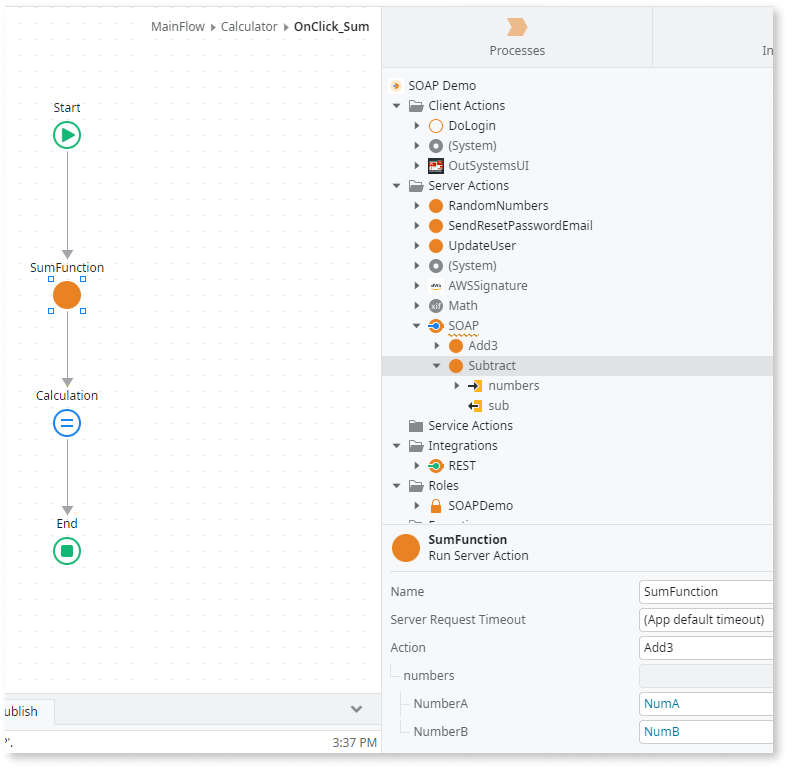
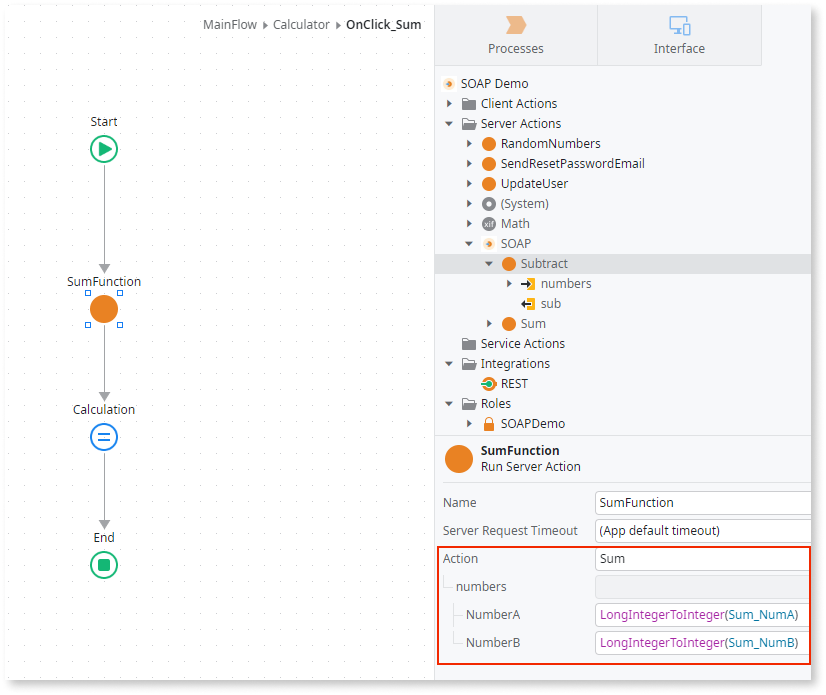
Updates in Supporting SOAP in ODC (#408)
* Peer feedback

* fixing hyperlinks

* feedback about client action image

* fixing typo

* Peer feedback

* incorporating feedback

* fixing links

diff --git a/src/eap/building-apps/external-logic/soap.md b/src/eap/building-apps/external-logic/soap.md
@@ -9,43 +9,45 @@ platform-version: odc
 
 # Supporting SOAP in ODC
 
-OutSystems Developer Cloud (ODC) lets you use Simple Object Access Protocol (SOAP) by creating a high-code solution and extending your code library. This document provides an example of how to create a library to consume a SOAP web service in ODC. This article assumes you are familiar with C#, .NET and SOAP. You can download the [SOAP demo OML example](resources/SOAP-Demo.oml).
+You can use Simple Object Access Protocol (SOAP) web services to extend your code in OutSystems Developer Cloud (ODC). This document provides an example of creating a library to consume a SOAP web service in ODC. This article assumes you know C#, .NET and SOAP. 
+
+You can download the [SOAP template](https://github.com/OutSystems/OutSystems.ExternalLibraries.SDK-templates/blob/main/soap_template.zip), a C# project designed for calculating the sum and subtraction of two numbers using SOAP web services. You can also download the [provided SOAP demo OML](resources/SOAP-Demo.oml), an example OutSystems app with external logic implemented.
 
 ## Prerequisites
 
-Ensure you have installed the prerequisites to [extend your apps with external logic](./README.md#Prerequisites). Then in Visual Studio Code, go to the extensions marketplace and search for and install the following extensions:
+Make sure you have installed the necessary prerequisites to [extend your apps with external logic](README.md#Prerequisites). Next, launch an integrated development environment (IDE) that supports building .NET 6 projects, such as Visual Studio or Visual Studio Code. Open the extensions marketplace within the IDE and search for the following extensions. Install them once you find them:
 
 * C# (extension id: ms-dotnettools.csharp)
 * NuGet Package Manager GUI (extension id: aliasadidev.nugetpackagemanagergui)
 
 ### Install .NET tools to create a library
 
-Select the folder in which you want to create your SOAP integration. Create a folder and give it a descriptive name, such as how-to-soap. Then go to the Visual Studio Code terminal, and enter the following command:
+Select the folder in which you want to create your SOAP integration. Create a folder and give it a descriptive name, such as `how-to-soap`. Then go to the IDE terminal and enter the following command:
 `cd path-to/<your-folder>`
 
-1. To work with SOAP web services using the command line, install the WCF dotnet-svcutil tool for .NET. However, run the following command to ensure you have the WCF dotnet-svcutil tool installed.
+1. To work with SOAP web services using the command line, install the WCF dotnet-svcutil tool for .NET. Run the following command to ensure you have the WCF dotnet-svcutil tool installed.
 
     `dotnet tool install --global dotnet-svcutil`
 
-2. To add the dependencies, use either the terminal or the NuGet Package Manager GUI using CTRL +SHIFT + P. Then install the following dependency:
+2. To add the dependencies, use either the terminal or NuGet Package Manager GUI. Then install the following dependency:
 
-`dotnet add package OutSystems.ExternalLibraries.SDK`
+    `dotnet add package OutSystems.ExternalLibraries.SDK`
 
 ## Consume SOAP web service as an external library in ODC
 
 To create a library that consumes a SOAP web service, follow this process:
 
-1. [Create a library using C#](#create-a-library-using-c)
+1. [Create OutSystems external library](#create-outsystems-external-library)
 2. [Upload the library to ODC Portal](#upload-the-library-to-odc-portal)
-3. [Use the actions from the library to consume the SOAP web service](#use-the-external-library-in-odc)
+3. [Use the actions from the library to consume the SOAP web service](#use-the-external-library-in-odc-studio)
 
 ## Create OutSystems external library
 
-To create an OutSystems external library that consumes SOAP web service in C#, follow this process:
+To create an OutSystems external library that consumes a SOAP web service in C#, follow this process:
 
 1. [Set up the project](#set-up-the-project)
-2. [Define the methods interface](#define-the-methods-interface)
-3. [Import the images resources](#import-the-images-resources)
+2. [Define the interface of the method](#define-the-interface-of-the-method)
+3. [Import the image resources](#import-the-image-resources)
 4. [Add the calculator SOAP web service](#add-the-calculator-soap-web-service)
 5. [Call the SOAP web service](#call-the-soap-web-service)
 6. [Release the SOAP web service](#release-the-soap-web-service)
@@ -54,21 +56,21 @@ To create an OutSystems external library that consumes SOAP web service in C#, f
 
 To install your web service and create the structures to be used by the interface, follow these steps:
 
-1. To install your web service using svcutil, open the Visual Studio Code terminal and run the following command.
+1. To install your web service using svcutil, open the IDE terminal and run the following command.
 
     `dotnet-svcutil https://<YOUR WSDL>`
 
     <div class="info" markdown="1">
 
-    You can use a free [SOAP WSDL](https://ecs.syr.edu/faculty/fawcett/Handouts/cse775/code/calcWebService/Calc.asmx) available for testing purposes.
+    You can use a free [SOAP WSDL](https://ecs.syr.edu/faculty/fawcett/Handouts/cse775/code/calcWebService/Calc.asmx) available for testing.
 
     </div>
 
-2. To create your library using the class library template, run the following code. Give the project a name, such as ConsumeSOAPExample and select .NET 6.0 (Long-term support) as the framework.
+2. To create your library using the class library template, run the following code. Give the project a name, such as `ConsumeSOAPExample`, and select **.NET 6.0 (Long-term support)** as the framework.
 
     `dotnet new classlib --language "C#" --framework "net6.0" -o ConsumeSOAPExample`
 
-3. Create a new folder named **Structures** inside the ConsumeSoapExample folder. Create a new file called **Numbers.cs** within the Structures folder. Then copy and paste the following code to create and map the structures as OutSystems structures.
+3. Create a new folder named `Structures` inside the ConsumeSoapExample folder. Create a new file called `Numbers.cs` within the Structures folder. Then copy and paste the following code to create and map the structures as OutSystems structures.
     
         using OutSystems.ExternalLibraries.SDK;
     
@@ -87,9 +89,9 @@ To install your web service and create the structures to be used by the interfac
             }
         }
 
-In the previous code, you defined a structure with two integer attributes (NumberA & NumberB). To learn more, see [available data types in the custom code SDK](https://github.com/OutSystems/OutSystems.ExternalLibraries.SDK-templates#3-usage).
+In the previous code, you defined a structure with two integer attributes (NumberA and NumberB). To learn more, see [available data types in the custom code SDK](README.md#usage).
 
-### Define the methods interface
+### Define the interface of the method
 
 To define the method interface, follow these steps:
 
@@ -101,9 +103,9 @@ To define the method interface, follow these steps:
         using OutSystems.ExternalLibraries.SDK;
         using ConsumeSOAPExample.Structures;
     
-2. Rename the file from Class1.cs to ConsumeSOAPExample.cs.
+2. Rename the file from `Class1.cs` to `ConsumeSOAPExample.cs`.
 
-3. Add an interface named **ICalculator** before the class in the namespace.
+3. Add an interface named `ICalculator` before the class in the namespace.
 
         namespace ConsumeSOAPExample 
         {
@@ -118,16 +120,16 @@ To define the method interface, follow these steps:
         }
 
 4. Add the custom code attributes from the OutSystems External Libraries SDK before the interface. 
-    * The OSInterface includes several properties that ODC uses to define the library name, description, and icon to identify the interface.
    
-            namespace ConsumeSOAPExample {
-                /* In this case, the OSInterface attribute provides information about the Calculator interface to the ODC,
-                    which uses this information to create an integration layer with a SOAP web service. */
-                [OSInterface(Description = "Consume a Free SOAP web service in OutSystems Developer Cloud (ODC).", IconResourceName = "ConsumeSOAPExample.Resources.Soap.png", Name = "SOAP")]
-                public interface ICalculator
-                {
-                }
+        namespace ConsumeSOAPExample 
+        {
+            /* In this case, the OSInterface attribute provides information about the Calculator interface to the ODC,
+                which uses this information to create an integration layer with a SOAP web service. */
+            [OSInterface(Description = "Consume a Free SOAP web service in OutSystems Developer Cloud (ODC).", IconResourceName = "ConsumeSOAPExample.Resources.SOAP.jpg", Name = "SOAP")]
+            public interface ICalculator
+            {
             }
+        }
 
 5. Inside the interface, add the two methods that represent the web service's methods.
 
@@ -143,36 +145,34 @@ To define the method interface, follow these steps:
         );
 
 
-### Import the images resources
+### Import the image resources
 
-In the interface, there are several icon resources. The icons are available in the [Sample project](resources/SOAP-Demo.oml). To import the resources, follow these steps:
+The interface includes icon resources located in the [resources folder of the provided project](https://github.com/OutSystems/OutSystems.ExternalLibraries.SDK-templates/tree/main/templates/soap/ConsumeSOAPExample/Resources). To import these resources, follow these steps:
 
-1. After you download the icons into your project, create a new folder and name it **Resources**. Then upload the icons to the Resource folder.
+1. After you download the icons into your project, create a new folder and name it `Resources`. Then upload the icons to the Resource folder.
 
-2. To add these resources to the project, open ConsumeSOAPExample.csproj and add the following code inside the ItemGroup tag:
+2. To add these resources to the project, open **ConsumeSOAPExample.csproj** and add the following code inside the ItemGroup tag:
     
-        <EmbeddedResource Include="Resources\add.png" />
-        <EmbeddedResource Include="Resources\Soap.png" />
-        <EmbeddedResource Include="Resources\sub.png" />   
-    
+        <EmbeddedResource Include="Resources\SOAP.jpg" /> 
+        
 ### Add the calculator SOAP web service
 
-To add the calculator SOAP web service, name the class **Calculator** and the interface **ICalculator**.  
+To add the calculator SOAP web service, name the class `Calculator` and the interface `ICalculator`.  
 
-        namespace ConsumeSOAPExample 
+    namespace ConsumeSOAPExample 
+    {
+        ...
+        public class Calculator : ICalculator
         {
             ...
-            public class Calculator : ICalculator
-            {
-               ...
-            }
         }
+    }
 
 ### Call the SOAP web service
 
 To call the SOAP web service, follow these steps:
 
-1. In the ICalculator interface, define the necessary properties for calling the SOAP web service.
+1. In the **ICalculator**. Define the necessary properties for calling the SOAP web service.
 
         // Add calculator web service Soap Channel
         private static readonly string ENDPOINTADDRESS = "<https://ecs.syr.edu/faculty/fawcett/Handouts/cse775/code/calcWebService/Calc.asmx>";
@@ -183,7 +183,7 @@ To call the SOAP web service, follow these steps:
 2. To create the request and add the properties for the BasicHttpBinding.
 
     * Define properties for the BasicHttpBinding.
-    * Define the security mode and the endpoint address by adding the following lines after the BasicHttpBinding object. Add the following code:
+    * Define the security mode and endpoint address by adding the following lines after the BasicHttpBinding object. Add the following code:
     
             public class Calculator : ICalculator 
             {
@@ -205,11 +205,11 @@ To call the SOAP web service, follow these steps:
                 }
             }
     
-3. 	To use the add method to perform a sum, define a private asynchronous method called **AddAsync** that takes in a single parameter of type Numbers.Add the following code:  
-    * To simplify the method, you can use two input parameters. However, this template showcases the usage of structures.
-    * The first parameter is an object of type Numbers (defined in the OutSystems.SOAP.Structures namespace), and it contains two integers, NumberA and NumberB. 
+3. To use the add method to perform a sum, define a private asynchronous method called **AddAsync** that takes in a single parameter of type Numbers. 
+    * To simplify the method, you can use two input parameters. This template showcases the usage of structures.
+    * The first parameter is an object of type Numbers (defined in the OutSystems.SOAP.Structures namespace), and it contains two integers, `NumberA` and `NumberB`. 
     * The second parameter is an output parameter of type int that contains the sum of NumberA and NumberB.
-    * The method returns a Task &#60;int&#62; object, which is a wrapper for the result of the asynchronous operation defined in the SOAP web service. 
+    * The method returns a Task &#60;int&#62; object, a wrapper for the result of the asynchronous operation defined in the SOAP web service. Add the following code: 
 
             public int Sum(Numbers numbers)
             {
@@ -227,11 +227,11 @@ To call the SOAP web service, follow these steps:
                 }
             }
 
-4. 	To use the Subtract method to perform a subtraction, define a private asynchronous method called **SubAsync** that takes a single parameter of type Numbers. Add the following code: 
+4. 	To use the Subtract method to perform a subtraction, define a private asynchronous method called **SubAsync** that takes a single parameter of type Numbers.
     * The input parameter is a structure that contains two numbers and returns the subtraction of those two numbers.
-    * The first parameter is an object of type Numbers (defined in the OutSystems.SOAP.Structures namespace) and contains two integers, NumberA and NumberB. 
+    * The first parameter is an object of type Numbers (defined in the OutSystems.SOAP.Structures namespace) and contains two integers, `NumberA` and `NumberB`. 
     * The second parameter is an output parameter of type int that contains the sub of NumberA and NumberB. 
-    * The method returns a Task &#60;int&#62; object, which is a wrapper for the result of the asynchronous operation defined in the SOAP web service. 
+    * The method returns a Task &#60;int&#62; object, a wrapper for the result of the asynchronous operation defined in the SOAP web service. Add the following code: 
             
             public int Subtract(Numbers numbers)
             {
@@ -251,33 +251,32 @@ To call the SOAP web service, follow these steps:
     
 ### Release the SOAP web service
 
-1. Once you finish the code, save the project and publish it. For example, right-click ConsumeSOAPExample and select **Open in Terminal**. Run the command, 
+1. Once you finish the code, save the project and publish it. For example, right-click **ConsumeSOAPExample** and select **Open in Terminal**. Run the command, 
     ` dotnet publish -c Release `
-2. Zip the published output folder (for example, ConsumeSOAPExample>bin>Release>net6.0>publish) to the root folder of a ZIP file. For example, ExternalLibrary.zip is the name of your external library.
+2. Zip the published output folder (for example, ConsumeSOAPExample > bin > Release > net6.0 > publish) to the root folder of a ZIP file. For example, `ExternalLibrary.zip` is the name of your external library.
 
 ## Upload the library to ODC Portal
 
-Once you have the SOAP zip file, [upload and publish the external logic](./intro.md#Upload-and-publish-the-external-logic) in ODC.
+Once you have the SOAP zip file, [upload and publish the external logic](intro.md#Upload-and-publish-the-external-logic) in ODC.
 
 ## Use the external library in ODC Studio
 
-After uploading the SOAP web service to ODC, create an application called **SOAP Demo** in ODC Studio to test the web service.
+After uploading the SOAP web service to ODC, create an application called `SOAP Demo` in ODC Studio to test the web service.
 
-1. Click the **Logic tab**, right-click the top Server action, and select the option to **Add a public element**. Then inside **All sources**, search for a dependency called SOAP and select the Add, Subtract actions and the Numbers structure.
-   
+1. Click the **Logic tab**, right-click the top Server action, and select the option to **Add a public element**. Then inside **All sources**, search for a dependency called `SOAP` and select the **Add**, **Subtract** actions and the **Numbers** structure. 
    ![add-public-elements](images/add-public-elements-odcs.png)
 
-2. Create a screen and name it **Calculator** with two inputs. Set both local variables as integers, name them **NumA** and **NumB**. Place a plus sign (+) between these two inputs and an equal sign (=) after the last input.
+2. Create a screen and name it `Calculator` with two inputs. Set both local variables as integers, name them `NumA` and `NumB`. Place a plus sign (+) between these two inputs and an equal sign (=) after the last input.
 
-3. Create another local variable as an integer and name it **Sum**. Drag an expression in the canvas and add the Sum variable below the equal sign.
+3. Create another local variable as an integer and name it `Sum`. Drag an expression in the canvas and add the **Sum** variable below the equal sign.
 
-4. Drag a button below the expression and name it **Calculate**. In the **On Click** list, select **New Client Action** and name it **OnClick_Sum**. New Client Action opens for editing.
+4. Drag a button below the expression and name it `Calculate`. In the **On Click** list, select **New Client Action** and name it `OnClick_Sum`. A screen opens for editing.
     
     ![calculator-screen](images/calculator-screen-odcs.png)
 
 5. Inside the **OnClick_Sum** client action, go to the **Logic** tab > **Server actions** > **SOAP** 
-    1. Drag the **Add action** to the flow and rename it **SumFunction**.
-    2. In the Properties, for the Add action, click the (+) sign to expand numbers, and inside add your local variables, the NumberA and NumberB attributes.
+    1. Drag the **Add action** to the flow and rename it `SumFunction`.
+    2. In the Properties for the Add action, click **(+)** sign to expand numbers, and inside add your local variables, the `NumberA` and `NumberB` attributes.
     
     ![Client-action](images/Client-action-odcs.png)
 
@@ -287,7 +286,7 @@ After uploading the SOAP web service to ODC, create an application called **SOAP
 
 <div class="info" markdown="1">
 
-To test it faster, go to the **screen properties** > **Authorization** and set the **Accessible by** the property to Everyone. This allows any user to test it without a log in. Also, when you click the **calculate** button for the first time, it might take a few seconds to get the response.
+To test it faster, go to the **screen properties** > **Authorization** and set the **Accessible by** the property to **Everyone**. This allows any user to test it without a log in. Also, when you click the **calculate** button for the first time, it might take a few seconds to get the response.
 
 </div>  
 
